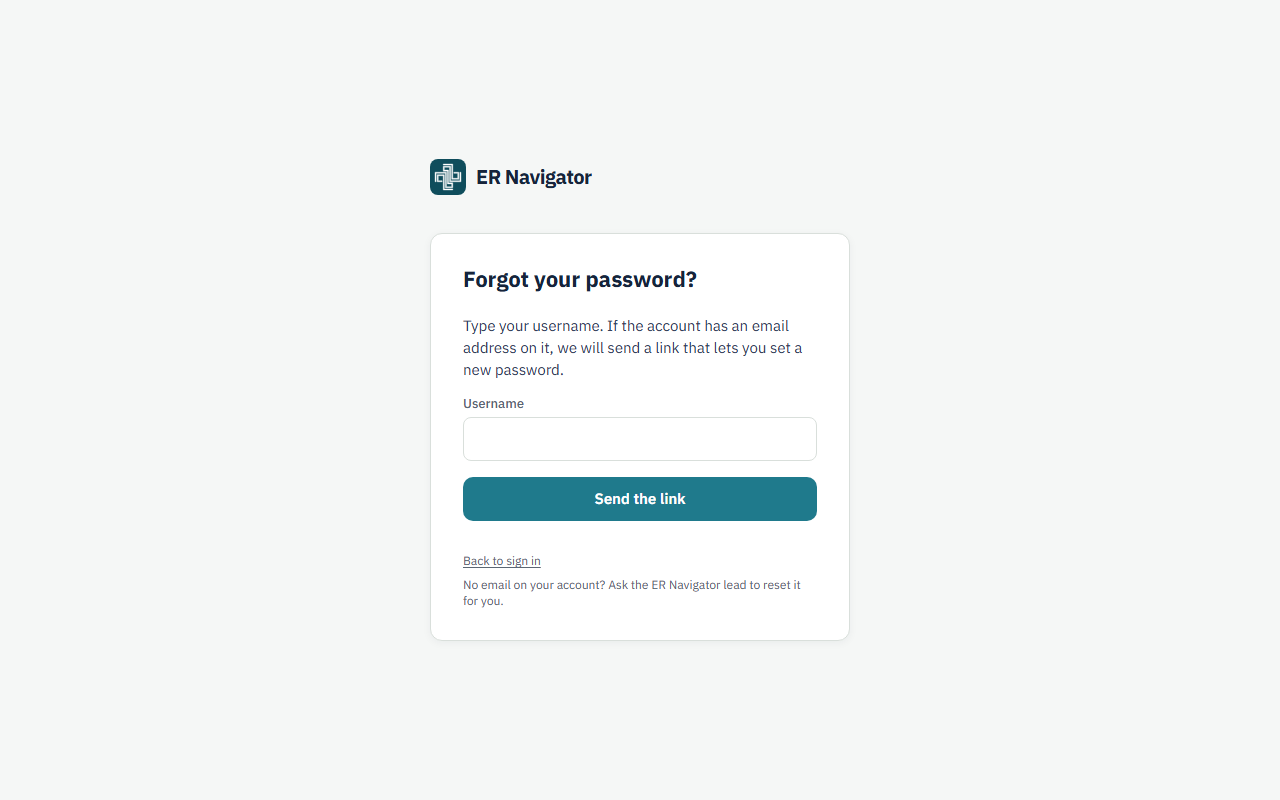
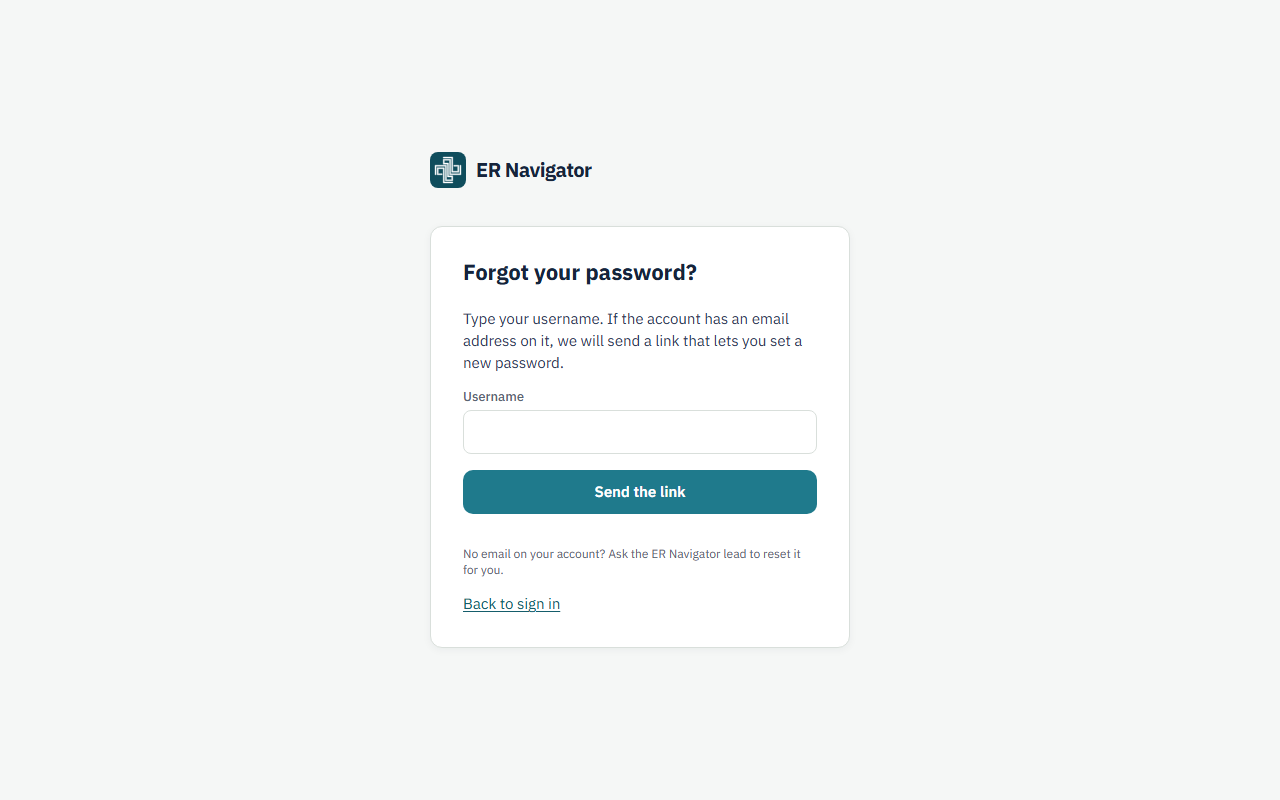
[ERN-P16.32] Re-take the /forgot captures and record the instance count
The /forgot page puts the "no email on your account" line above the way back
to sign in rather than below it, which is the order the two sentences are read
in; the two captures are re-taken from the tree that ships. Every other
phase's captures are restored, so only Phase 16's move.

`docs/PLAN.md` says 17 in `tests/instance`, the count with the new banner
assertion for the two signed-out reset pages.

diff --git a/docs/PLAN.md b/docs/PLAN.md
@@ -56,7 +56,7 @@ Read order for any session: `CLAUDE.md` (short), then the section of this plan f
 - The app does not send the mail; the worker does. `/forgot` appends a row to a small `Outbox` table and the alerts worker drains it every 20 seconds on its own timer, marking `sentAt`, or `attempts` and `lastError`. The 5-minute alert cycle, the heartbeat and the push monitor are untouched, so a mail server that is down can never make that container report unhealthy. With `SMTP_HOST` empty the worker logs the message the way it logs an alert and stamps the row sent, which is exactly what the demo instance does: the flow is fully demonstrable there and nothing leaves the host.
 - Setting the password is not a second implementation. It goes through the store port P15.63 built, so one place in this application sets a password hash, clears the lock and the failure count, writes the `user.password` audit row and deletes every session. Two things differ, both carried on the origin: `mustChangePassword` stays **false**, because the user chose this password themselves, and the audit row says `via: 'email-reset'`. Three audit rows in all — `auth.reset.requested` (payload `{ requested: true }`, and nothing at all is written when nothing is issued), `user.password`, and `auth.fail` for a token that could not be spent — and no token value in any of them, or in any log line.
 - One additive migration, two tables, nothing else touched: no column of any existing table, no enum, no taxonomy name, no permission, no figure in the deck or the Adaa form, no change to the Content-Security-Policy, no new environment variable on the app or on the worker, and no new dependency. VIEWER accounts may use it, because it is their own password. An account with **no email address** cannot, and is told nothing different; the host script (P15.63) stays the answer for that, and the runbook says so.
-- The chain the phase closes on: typecheck, lint, 1,268 unit and database tests in 73 files, the production build, 277 Playwright tests at 390 x 844 and 1280 x 800 with 63 project skips and none flaky at two workers, 16 in `tests/instance`, 7 in `tests/demo`, the app-role privilege guard extended to `Outbox`, and no schema drift. Gate captures in `design/screens/phase16-*.png`.
+- The chain the phase closes on: typecheck, lint, 1,268 unit and database tests in 73 files, the production build, 277 Playwright tests at 390 x 844 and 1280 x 800 with 63 project skips and none flaky at two workers, 17 in `tests/instance`, 7 in `tests/demo`, the app-role privilege guard extended to `Outbox`, and no schema drift. Gate captures in `design/screens/phase16-*.png`.
 
 **Delivered in Phase 15 (12 September; Ahmed, after the Phase 14 gate: "some are suitable for discharged patients and some for admitted patients only and others for referred patients to other facility ... Hide them and show what is related based on patient trajectory")**
 
@@ -338,7 +338,7 @@ Ahmed was locked out of the admin account that morning and was let back in by `n
 
 **One thing the chain caught, and it was the right thing.** `tests/db/demo-seed.test.ts` migrates a schema of its own, which replays the Phase 1 privileges migration, whose GRANTs name `SCHEMA public` literally — so running the suite hands `ernav_app` DELETE back on every public table, and the narrowing that undoes it only listed the tables that existed when it was written. The new table walked straight into that gap and the assertion Phase 12 built for exactly this failed. `Outbox` is now in the narrowing list, in the list that test reads back, and in CI's privilege guard.
 
-Verified on the lead database: typecheck, lint, 1,268 unit and database tests in 73 files, the production build, 277 Playwright tests at 390 x 844 and 1280 x 800 (63 project skips, none flaky at two workers), 16 in `tests/instance`, 7 in `tests/demo` on a reset demo database, the app-role privilege guard, and `prisma migrate diff --from-config-datasource --to-schema prisma/schema.prisma` reporting an empty migration once applied. Gate captures in `design/screens/phase16-*.png`.
+Verified on the lead database: typecheck, lint, 1,268 unit and database tests in 73 files, the production build, 277 Playwright tests at 390 x 844 and 1280 x 800 (63 project skips, none flaky at two workers), 17 in `tests/instance`, 7 in `tests/demo` on a reset demo database, the app-role privilege guard, and `prisma migrate diff --from-config-datasource --to-schema prisma/schema.prisma` reporting an empty migration once applied. Gate captures in `design/screens/phase16-*.png`.
 
 Recipe as run: Fable wrote the brief and the design and holds the gate; Opus did everything else in one session on `main` in the main checkout — the spec from the brief, the build tests first with one commit per coherent item, the whole verification chain, the deploy check by fingerprint, the demo redeploy and the demo proof, and these documents.
 
